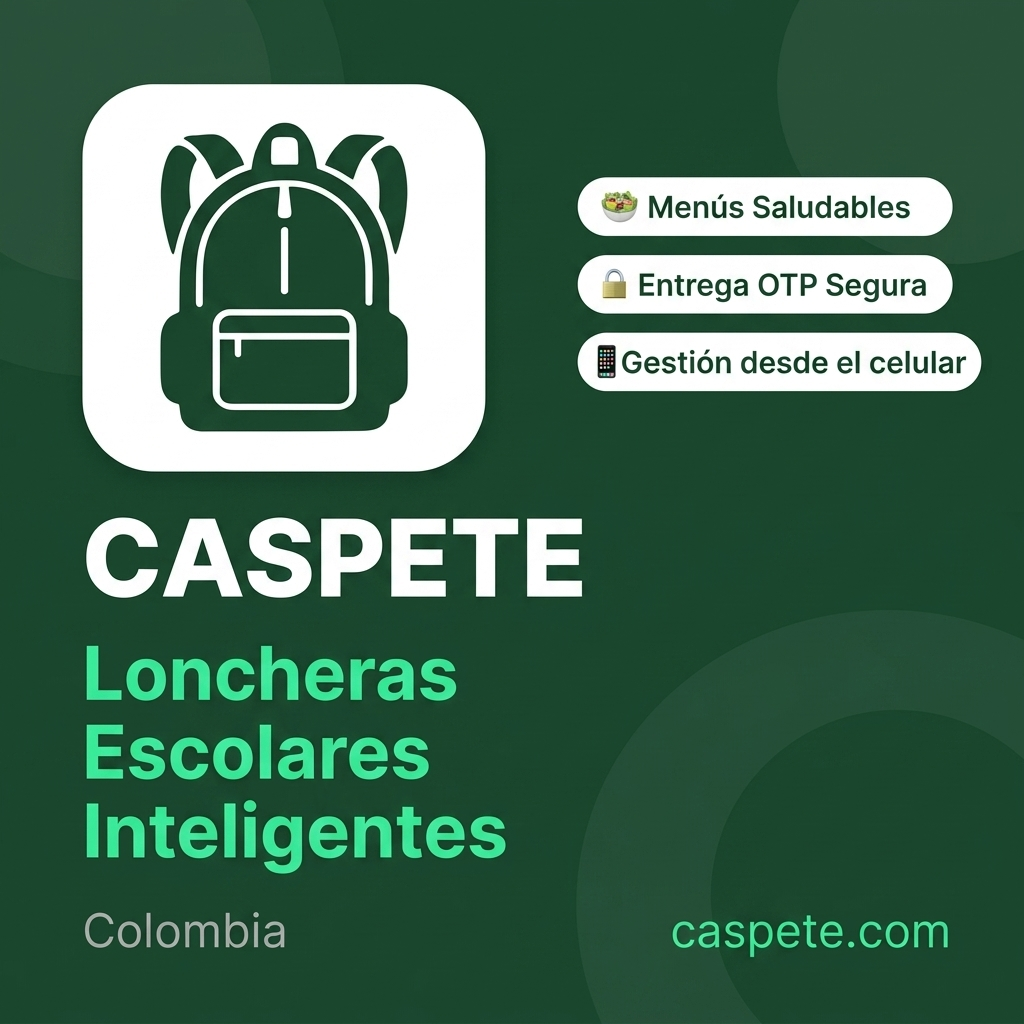
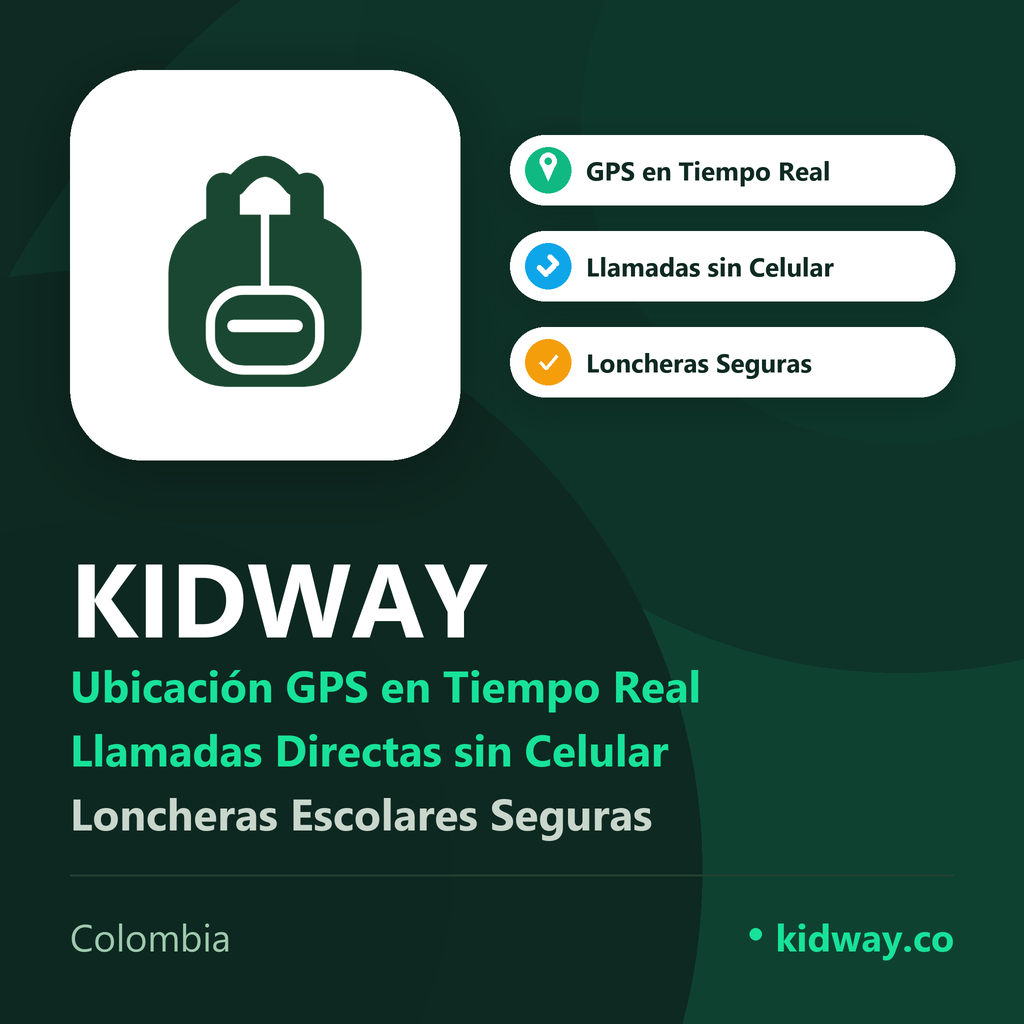
fix(branding): actualizar og-image.png, metatags y manifest con branding oficial de Kidway

diff --git a/frontend/index.html b/frontend/index.html
@@ -23,22 +23,24 @@
     <meta name="content-language" content="es-CO" />
 
     <!-- ══ Open Graph (WhatsApp, Facebook, LinkedIn) ════════════════════ -->
-    <meta property="og:type"         content="website" />
-    <meta property="og:url"          content="https://kidway.co/" />
-    <meta property="og:title"        content="Kidway — Ubicación GPS y Llamadas para tu Hijo | App para Padres" />
-    <meta property="og:description"  content="Ubicación GPS en tiempo real y llamadas directas con tu hijo desde su localizador, sin celular propio. Además, programa sus loncheras saludables y paga con Nequi. Hecho para padres en Colombia." />
-    <meta property="og:image"        content="https://kidway.co/og-image.png" />
-    <meta property="og:image:width"  content="1200" />
-    <meta property="og:image:height" content="630" />
-    <meta property="og:image:alt"    content="Kidway — Plataforma de Loncheras Escolares en Colombia" />
-    <meta property="og:locale"       content="es_CO" />
-    <meta property="og:site_name"    content="Kidway" />
+    <meta property="og:type"               content="website" />
+    <meta property="og:url"                content="https://kidway.co/" />
+    <meta property="og:title"              content="Kidway — Ubicación GPS y Llamadas para tu Hijo | App para Padres" />
+    <meta property="og:description"        content="Ubicación GPS en tiempo real y llamadas directas con tu hijo desde su localizador, sin celular propio. Además, programa sus loncheras saludables y paga con Nequi. Hecho para padres en Colombia." />
+    <meta property="og:image"              content="https://kidway.co/og-image.png?v=20260909" />
+    <meta property="og:image:secure_url"   content="https://kidway.co/og-image.png?v=20260909" />
+    <meta property="og:image:type"         content="image/png" />
+    <meta property="og:image:width"        content="1024" />
+    <meta property="og:image:height"       content="1024" />
+    <meta property="og:image:alt"          content="Kidway — Ubicación GPS, Llamadas para Niños y Loncheras Escolares en Colombia" />
+    <meta property="og:locale"             content="es_CO" />
+    <meta property="og:site_name"          content="Kidway" />
 
     <!-- ══ Twitter / X Card ════════════════════════════════════════════ -->
-    <meta name="twitter:card"        content="summary_large_image" />
-    <meta name="twitter:title"       content="Kidway — Ubicación GPS y Llamadas para tu Hijo" />
-    <meta name="twitter:description" content="App para padres: ubicación GPS en tiempo real y llamadas directas con tu hijo desde su localizador. Además, programa sus loncheras saludables y paga con Nequi." />
-    <meta name="twitter:image"       content="https://kidway.co/og-image.png" />
+    <meta name="twitter:card"              content="summary_large_image" />
+    <meta name="twitter:title"             content="Kidway — Ubicación GPS y Llamadas para tu Hijo" />
+    <meta name="twitter:description"       content="App para padres: ubicación GPS en tiempo real y llamadas directas con tu hijo desde su localizador. Además, programa sus loncheras saludables y paga con Nequi." />
+    <meta name="twitter:image"             content="https://kidway.co/og-image.png?v=20260909" />
 
     <!-- ══ PWA / Instalación ════════════════════════════════════════════ -->
     <link rel="icon"             type="image/svg+xml" href="/favicon.svg" />
@@ -129,7 +131,7 @@
           "applicationSubCategory": "School Management",
           "description": "App para padres de familia en Colombia: ubicación GPS en tiempo real y llamadas directas con tu hijo desde su localizador, sin celular propio. Además, gestión de loncheras escolares, control de saldo, pago con Nequi, entrega verificada por QR y cumplimiento legal colombiano. El colegio también se beneficia si lo implementa.",
           "url": "https://kidway.co",
-          "screenshot": "https://kidway.co/og-image.png",
+          "screenshot": "https://kidway.co/og-image.png?v=20260909",
           "featureList": [
             "Ubicación GPS del niño en tiempo real",
             "Llamadas directas al localizador del niño",

diff --git a/frontend/scripts/generate-og-image.py b/frontend/scripts/generate-og-image.py
@@ -1,0 +1,154 @@
+"""
+Script para generar la imagen Open Graph oficial de Kidway (og-image.png).
+Resolución: 1024x1024 con supersampling 2x para máxima nitidez anti-aliasing.
+"""
+import os
+from PIL import Image, ImageDraw, ImageFont, ImageFilter
+
+SCALE = 2
+W, H = 1024 * SCALE, 1024 * SCALE
+
+# Directorio raíz del frontend
+SCRIPT_DIR = os.path.dirname(os.path.abspath(__file__))
+FRONTEND_DIR = os.path.abspath(os.path.join(SCRIPT_DIR, '..'))
+PUBLIC_DIR = os.path.join(FRONTEND_DIR, 'public')
+FAVICON_PATH = os.path.join(PUBLIC_DIR, 'favicon.png')
+OUTPUT_PATH = os.path.join(PUBLIC_DIR, 'og-image.png')
+
+# 1. Base Canvas - Deep Pine (#0E2A22)
+img = Image.new('RGBA', (W, H), (14, 42, 34, 255))
+
+# 2. Ambient glows
+glow = Image.new('RGBA', (W, H), (0, 0, 0, 0))
+gd = ImageDraw.Draw(glow)
+
+for r, a in [(950*SCALE, 14), (650*SCALE, 22), (400*SCALE, 32)]:
+    cx, cy = int(W * 0.82), int(H * 0.72)
+    gd.ellipse([cx - r, cy - r, cx + r, cy + r], fill=(24, 226, 153, a))
+
+for r, a in [(550*SCALE, 16), (320*SCALE, 24)]:
+    cx, cy = int(W * 0.88), int(H * 0.12)
+    gd.ellipse([cx - r, cy - r, cx + r, cy + r], fill=(16, 185, 129, a))
+
+for r, a in [(600*SCALE, 25), (350*SCALE, 35)]:
+    cx, cy = int(W * 0.1), int(H * 0.85)
+    gd.ellipse([cx - r, cy - r, cx + r, cy + r], fill=(10, 30, 24, a))
+
+img = Image.alpha_composite(img, glow)
+
+def add_shadow(base_img, box, radius, fill=(0, 20, 15, 65), blur=24*SCALE, offset=(0, 10*SCALE)):
+    shadow = Image.new('RGBA', base_img.size, (0, 0, 0, 0))
+    sd = ImageDraw.Draw(shadow)
+    bx = [box[0] + offset[0], box[1] + offset[1], box[2] + offset[0], box[3] + offset[1]]
+    sd.rounded_rectangle(bx, radius=radius, fill=fill)
+    shadow = shadow.filter(ImageFilter.GaussianBlur(blur))
+    return Image.alpha_composite(base_img, shadow)
+
+# 3. Logo Card (Top-Left)
+logo_box = [70*SCALE, 70*SCALE, 460*SCALE, 460*SCALE]
+img = add_shadow(img, logo_box, radius=72*SCALE, fill=(0, 15, 10, 85), blur=28*SCALE, offset=(0, 14*SCALE))
+
+draw = ImageDraw.Draw(img)
+draw.rounded_rectangle(logo_box, radius=72*SCALE, fill=(255, 255, 255, 255))
+
+fav = Image.open(FAVICON_PATH).convert('RGBA')
+fav_size = 320 * SCALE
+fav_res = fav.resize((fav_size, fav_size), Image.Resampling.LANCZOS)
+fx = logo_box[0] + (logo_box[2] - logo_box[0] - fav_size) // 2
+fy = logo_box[1] + (logo_box[3] - logo_box[1] - fav_size) // 2
+img.paste(fav_res, (fx, fy), fav_res)
+
+# 4. Fonts
+font_title = ImageFont.truetype('C:/Windows/Fonts/segoeuib.ttf', 104 * SCALE)
+font_sub = ImageFont.truetype('C:/Windows/Fonts/segoeuib.ttf', 44 * SCALE)
+font_pill = ImageFont.truetype('C:/Windows/Fonts/segoeuib.ttf', 26 * SCALE)
+font_foot_bold = ImageFont.truetype('C:/Windows/Fonts/segoeuib.ttf', 38 * SCALE)
+font_foot_light = ImageFont.truetype('C:/Windows/Fonts/segoeui.ttf', 38 * SCALE)
+
+# 5. Top-Right: 3 Pills
+pills = [
+    ('GPS en Tiempo Real', (16, 185, 129), 'pin'),
+    ('Llamadas sin Celular', (14, 165, 233), 'phone'),
+    ('Loncheras Seguras', (245, 158, 11), 'check')
+]
+
+pill_w = 445 * SCALE
+pill_h = 70 * SCALE
+px = int(510 * SCALE)
+py_start = int(135 * SCALE)
+py_gap = int(96 * SCALE)
+
+for i, (text, icon_color, icon_type) in enumerate(pills):
+    py = py_start + i * py_gap
+    pbox = [px, py, px + pill_w, py + pill_h]
+    img = add_shadow(img, pbox, radius=pill_h//2, fill=(0, 15, 10, 55), blur=16*SCALE, offset=(0, 8*SCALE))
+    
+    pdraw = ImageDraw.Draw(img)
+    pdraw.rounded_rectangle(pbox, radius=pill_h//2, fill=(255, 255, 255, 255))
+    
+    ic_cx = px + int(38 * SCALE)
+    ic_cy = py + pill_h // 2
+    ic_r = int(23 * SCALE)
+    pdraw.ellipse([ic_cx - ic_r, ic_cy - ic_r, ic_cx + ic_r, ic_cy + ic_r], fill=icon_color)
+    
+    if icon_type == 'pin':
+        pr = int(8.5 * SCALE)
+        pdraw.ellipse([ic_cx - pr, ic_cy - int(9*SCALE) - pr, ic_cx + pr, ic_cy - int(9*SCALE) + pr], fill=(255, 255, 255))
+        pdraw.polygon([(ic_cx - int(7.5*SCALE), ic_cy - int(6*SCALE)), (ic_cx + int(7.5*SCALE), ic_cy - int(6*SCALE)), (ic_cx, ic_cy + int(11*SCALE))], fill=(255, 255, 255))
+        pdraw.ellipse([ic_cx - int(3.5*SCALE), ic_cy - int(9*SCALE) - int(3.5*SCALE), ic_cx + int(3.5*SCALE), ic_cy - int(9*SCALE) + int(3.5*SCALE)], fill=icon_color)
+    elif icon_type == 'phone':
+        h_sz = int(48 * SCALE)
+        h_img = Image.new('RGBA', (h_sz, h_sz), (0, 0, 0, 0))
+        h_d = ImageDraw.Draw(h_img)
+        hcx, hcy = h_sz // 2, h_sz // 2
+        S_h = SCALE
+        h_d.rounded_rectangle([hcx - int(7*S_h), hcy - int(10*S_h), hcx + int(7*S_h), hcy - int(5*S_h)], radius=int(2.5*S_h), fill=(255, 255, 255))
+        h_d.rounded_rectangle([hcx - int(7*S_h), hcy + int(5*S_h), hcx + int(7*S_h), hcy + int(10*S_h)], radius=int(2.5*S_h), fill=(255, 255, 255))
+        h_d.rounded_rectangle([hcx - int(7*S_h), hcy - int(6*S_h), hcx - int(2*S_h), hcy + int(6*S_h)], radius=int(2.5*S_h), fill=(255, 255, 255))
+        h_rot = h_img.rotate(135, resample=Image.Resampling.BICUBIC)
+        img.paste(h_rot, (ic_cx - h_sz//2, ic_cy - h_sz//2), h_rot)
+    elif icon_type == 'check':
+        pts = [(ic_cx - int(8*SCALE), ic_cy), (ic_cx - int(2*SCALE), ic_cy + int(6.5*SCALE)), (ic_cx + int(9*SCALE), ic_cy - int(6.5*SCALE))]
+        pdraw.line(pts, fill=(255, 255, 255), width=int(3.8*SCALE), joint='curve')
+    
+    pdraw.text((px + int(76 * SCALE), py + int(17 * SCALE)), text, font=font_pill, fill=(14, 42, 34))
+
+draw = ImageDraw.Draw(img)
+
+# 6. Brand Name: KIDWAY
+y_title = int(525 * SCALE)
+draw.text((70 * SCALE, y_title), 'KIDWAY', font=font_title, fill=(255, 255, 255))
+
+# 7. Subtitles
+y_sub1 = y_title + int(130 * SCALE)
+y_sub2 = y_sub1 + int(64 * SCALE)
+y_sub3 = y_sub2 + int(64 * SCALE)
+
+draw.text((70 * SCALE, y_sub1), 'Ubicación GPS en Tiempo Real', font=font_sub, fill=(24, 226, 153))
+draw.text((70 * SCALE, y_sub2), 'Llamadas Directas sin Celular', font=font_sub, fill=(24, 226, 153))
+draw.text((70 * SCALE, y_sub3), 'Loncheras Escolares Seguras', font=font_sub, fill=(201, 214, 204))
+
+# 8. Subtle divider
+y_div = int(875 * SCALE)
+draw.line([(70 * SCALE, y_div), ((1024 - 70) * SCALE, y_div)], fill=(35, 65, 52), width=int(2 * SCALE))
+
+# 9. Footer: Colombia & kidway.co
+y_foot = int(910 * SCALE)
+draw.text((70 * SCALE, y_foot), 'Colombia', font=font_foot_light, fill=(159, 201, 174))
+
+url_text = 'kidway.co'
+url_bbox = draw.textbbox((0, 0), url_text, font=font_foot_bold)
+url_w = url_bbox[2] - url_bbox[0]
+rx = (1024 - 70) * SCALE - url_w
+
+dot_cx = rx - int(20 * SCALE)
+dot_cy = y_foot + int(24 * SCALE)
+dot_r = int(6 * SCALE)
+draw.ellipse([dot_cx - dot_r, dot_cy - dot_r, dot_cx + dot_r, dot_cy + dot_r], fill=(24, 226, 153))
+
+draw.text((rx, y_foot), url_text, font=font_foot_bold, fill=(24, 226, 153))
+
+# Final high-quality resize
+final = img.resize((1024, 1024), Image.Resampling.LANCZOS)
+final.convert('RGB').save(OUTPUT_PATH, 'PNG', quality=95)
+print(f'✅ og-image.png regenerada con éxito en {OUTPUT_PATH}')
